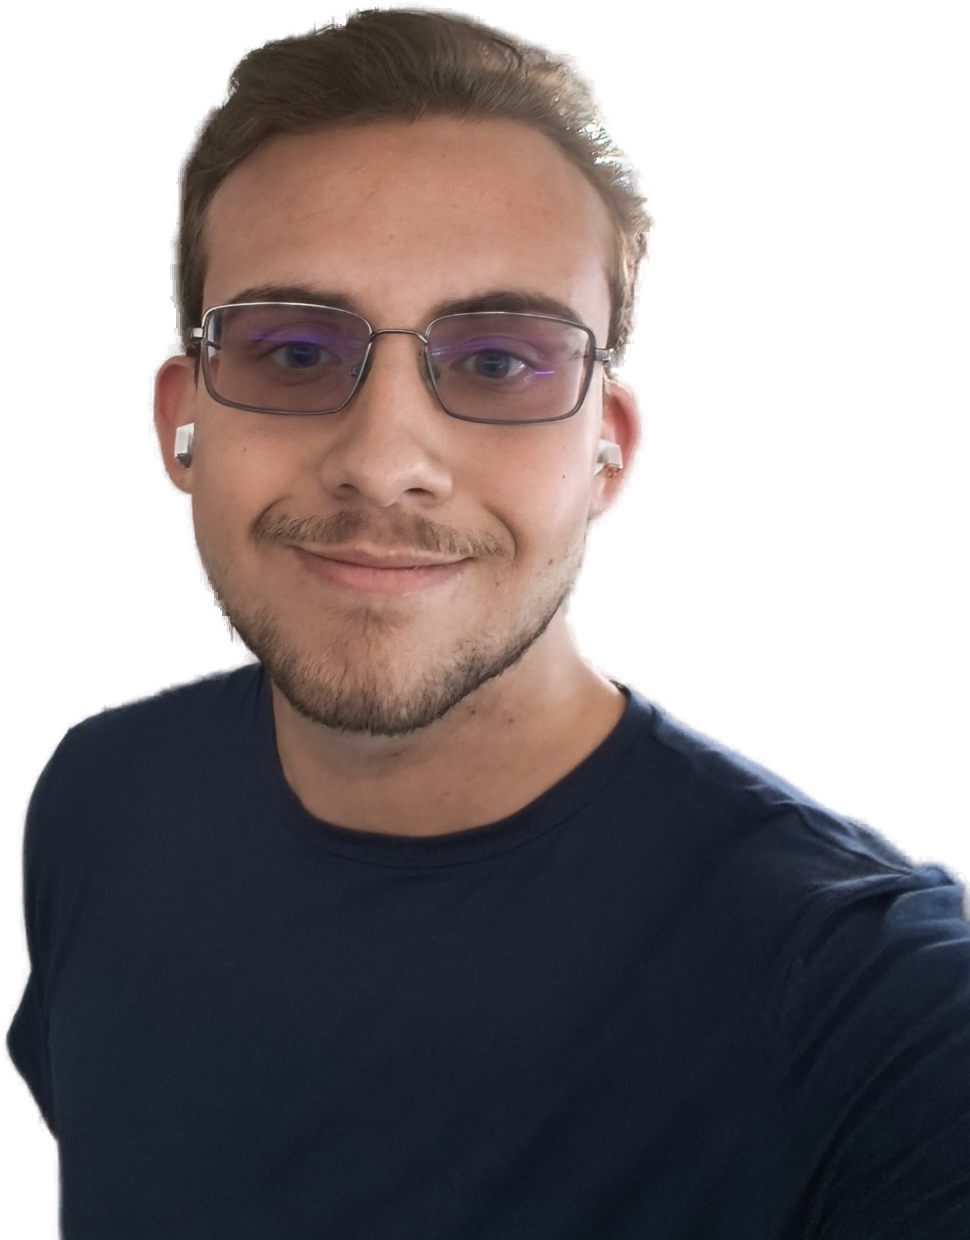
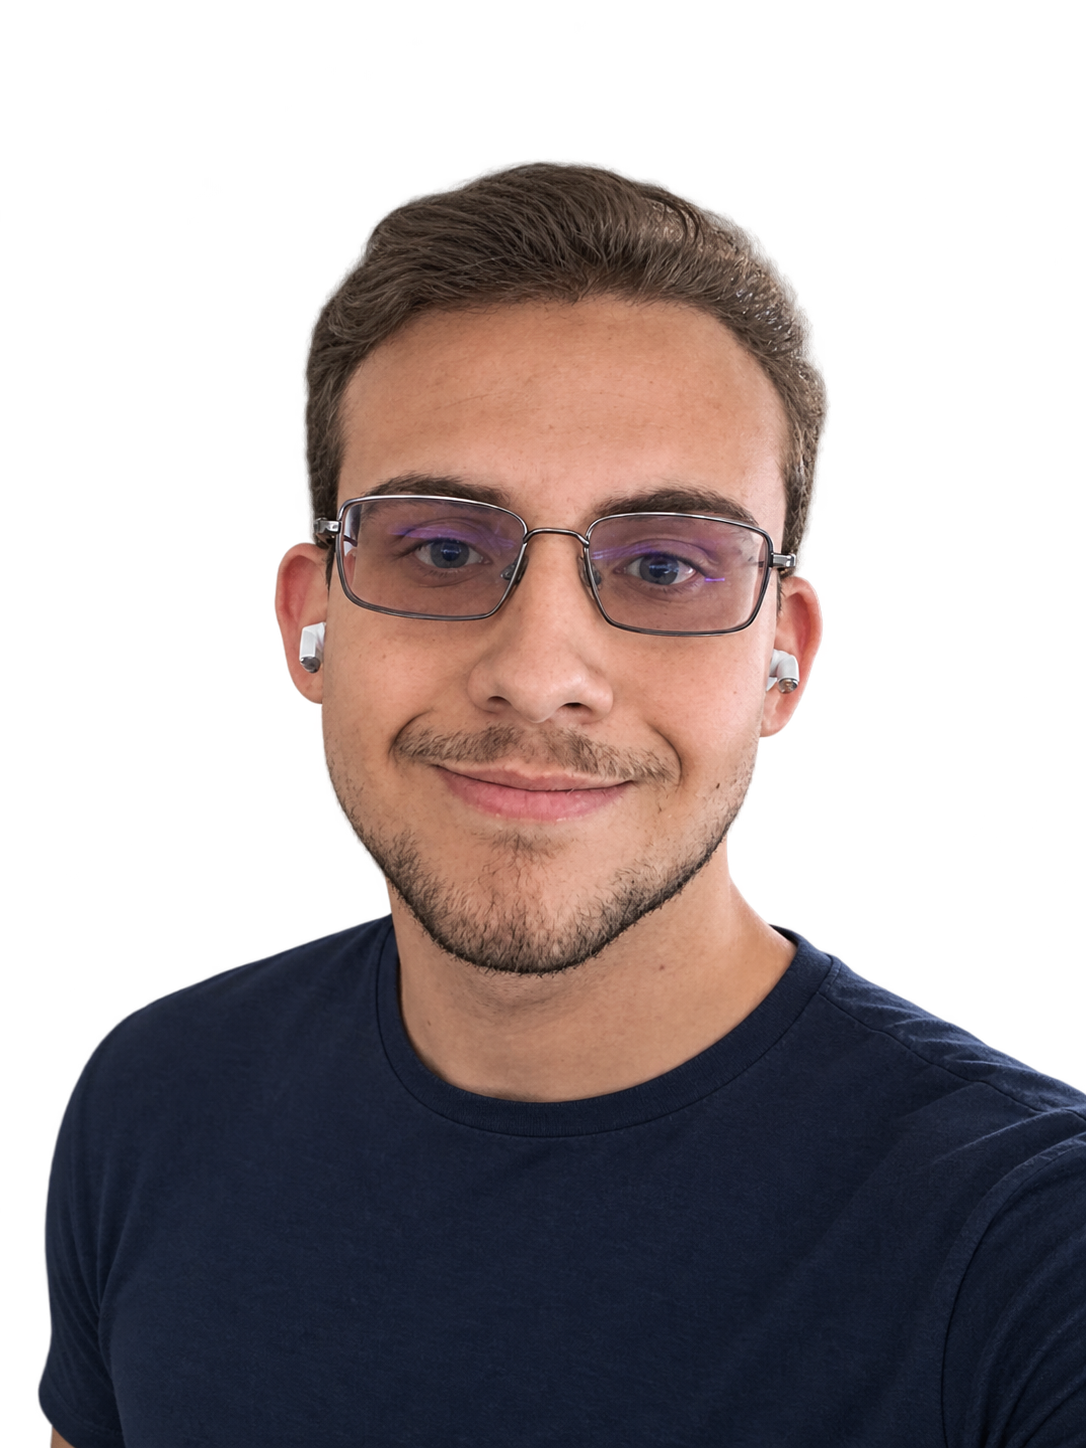
feat: nova foto sem fundo (óculos claros) na home e no portfólio
Claude-Session: https://claude.ai/code/session_01Xf5JLSMLBR1zSnAHG4ZQsQ

diff --git a/src/components/Intro.tsx b/src/components/Intro.tsx
@@ -69,8 +69,8 @@ export function Intro({ profile, projectCount }: { profile: Profile; projectCoun
         <Image
           src="/guilherme-recorte.png"
           alt={`Foto de ${profile.name}`}
-          width={970}
-          height={1240}
+          width={1086}
+          height={1448}
           sizes="(max-width: 640px) 80vw, 640px"
           priority
         />

diff --git a/src/components/ProfileHeader.tsx b/src/components/ProfileHeader.tsx
@@ -34,8 +34,8 @@ export function ProfileHeader({ profile, projectCount }: Props) {
         <Image
           src="/guilherme-recorte.png"
           alt={`Foto de ${profile.name}`}
-          width={970}
-          height={1240}
+          width={1086}
+          height={1448}
           sizes="(max-width: 640px) 104px, 300px"
           priority
         />
